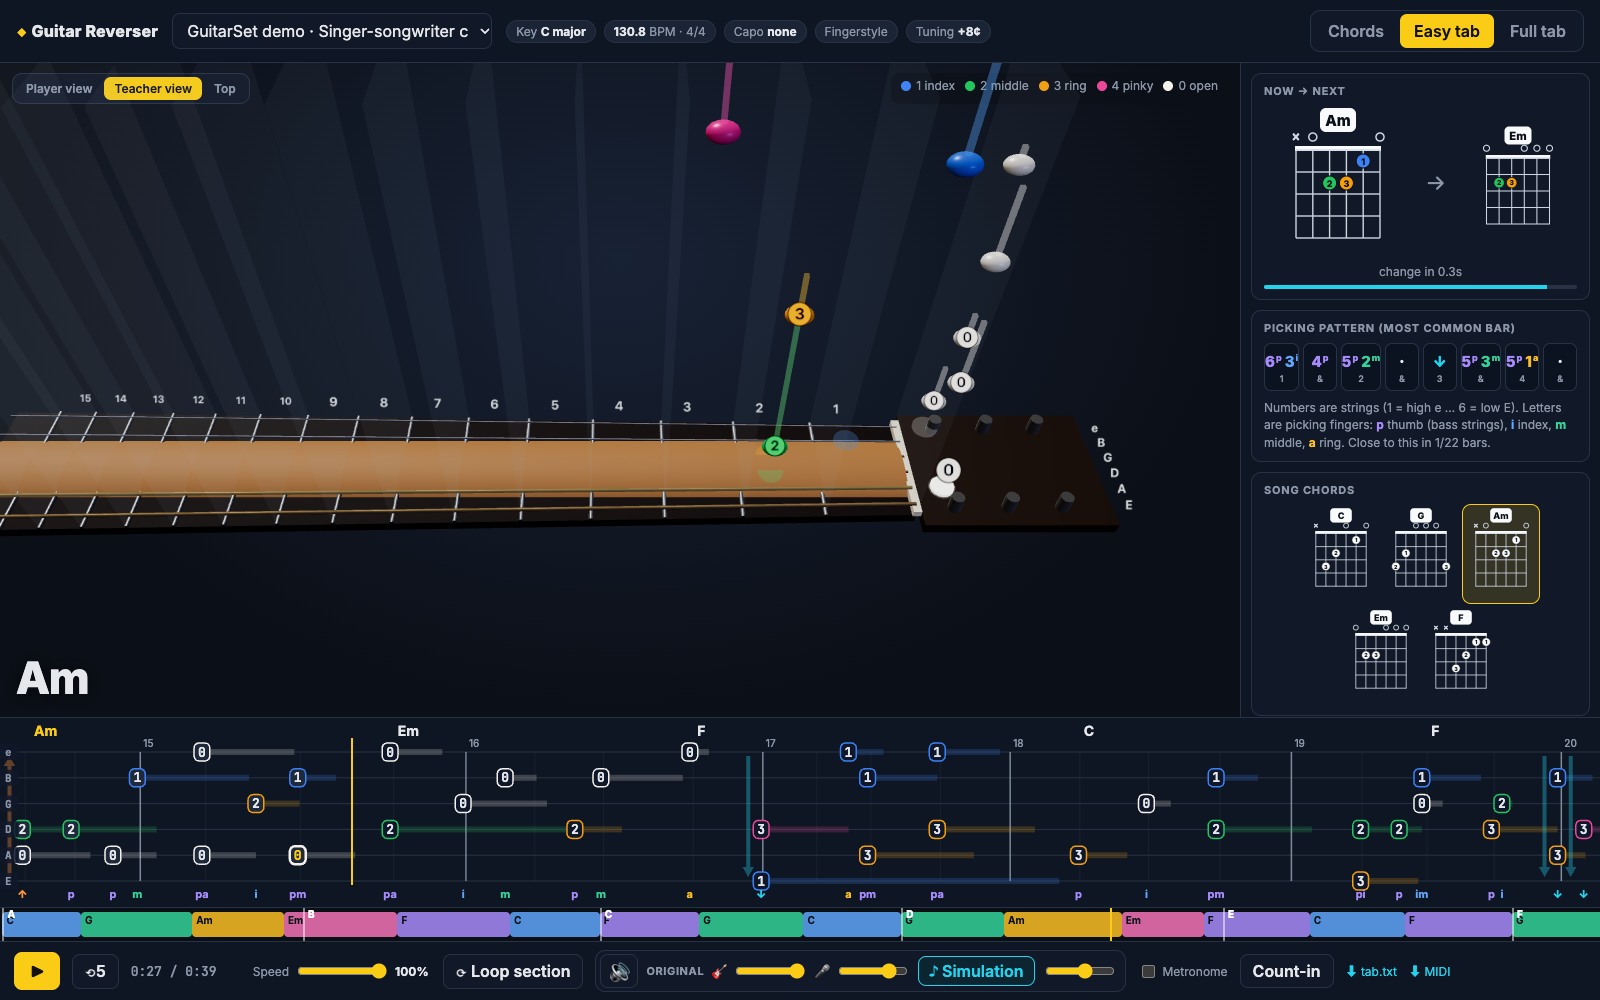
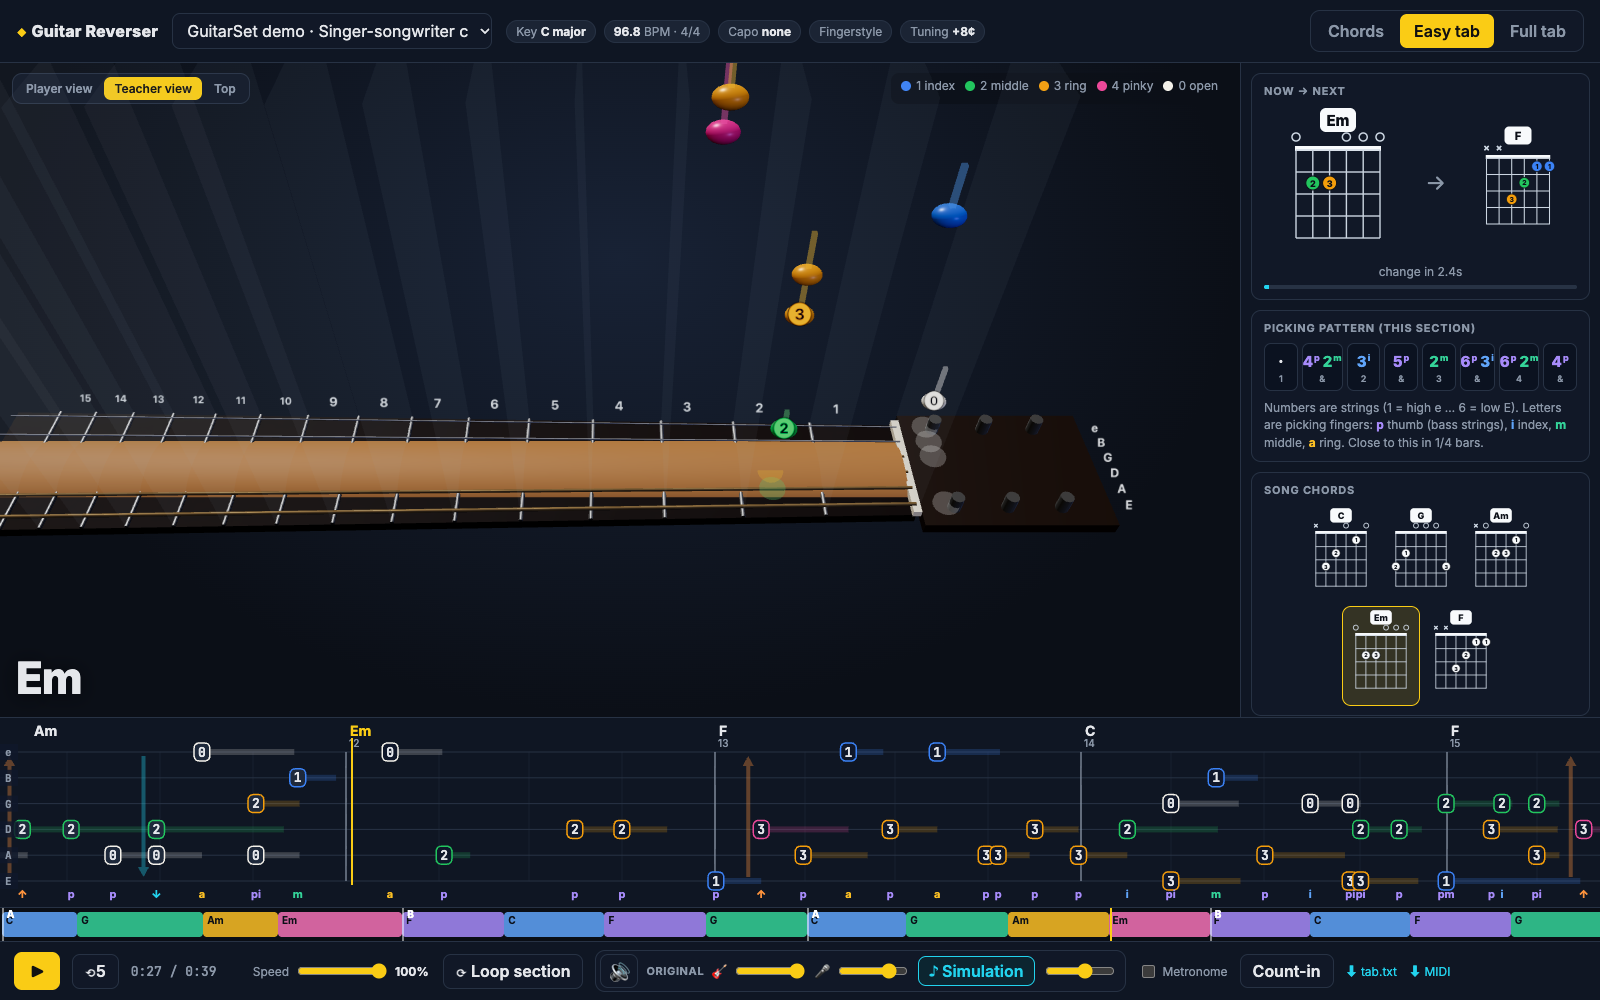
docs: beat_this and strum results, second real-video check

diff --git a/README.md b/README.md
@@ -53,7 +53,7 @@ flowchart LR
 |---|---|---|
 | Stems | [Demucs](https://github.com/facebookresearch/demucs) `htdemucs_6s` | guitar = guitar + bass + ½ other (acoustic low strings leak into "bass") |
 | Notes | [Basic Pitch](https://github.com/spotify/basic-pitch) | tuning correction, merging, octave-ghost and vocal-bleed filters |
-| Rhythm | [librosa](https://librosa.org) beat tracker, or [beat_this](https://github.com/CPJKU/beat_this) if installed | **metronome detection** (a click track is a ground-truth grid), meter and downbeat from accents, chord changes and bass onsets |
+| Rhythm | [beat_this](https://github.com/CPJKU/beat_this) (beats + downbeats; librosa fallback) | **metronome and count-in detection** (a click track is a ground-truth grid; a count-in marks beat 1), meter from accents, chord changes and bass onsets |
 | Chords & key | — | beat-synchronous chroma from the note posteriorgram, bass weighting, key from note profile + draft chords, key prior, "no chord" state, Viterbi; maj, min, 7, maj7, m7, m7♭5 |
 | Guitar in the picture | [OWLv2](https://huggingface.co/google/owlv2-base-patch16-ensemble) (open-vocabulary detection) | neck axis from body → fretting hand, nut from an aligned headstock |
 | Hands | [MediaPipe Hand Landmarker](https://ai.google.dev/edge/mediapipe/solutions/vision/hand_landmarker) | fret from geometry (`−12·log2(1 − d/scale)`), picking-hand velocity |
@@ -68,12 +68,6 @@ Needs Python 3.10–3.12, Node 18+, `ffmpeg`. Tested on an M1 Mac (Demucs uses M
 uv venv --python 3.11 .venv
 uv pip install --python .venv/bin/python -e .
 npm --prefix web install
-```
-
-Optional, better beats and downbeats ([beat_this](https://github.com/CPJKU/beat_this), ISMIR 2024). The pipeline uses it automatically when it's installed:
-
-```bash
-uv pip install --python .venv/bin/python -e ".[beats]"
 ```
 
 Try the player straight away. A CC-licensed demo song is bundled:
@@ -124,6 +118,7 @@ Analysed songs stay on your machine: `web/public/songs/` and `work/` are git-ign
 - **3D fretboard**: notes fall onto the exact string and fret, coloured by finger (1 index · 2 middle · 3 ring · 4 pinky · open). Ringing strings glow and vibrate. Drag to orbit.
 - **Tab lane** under a fixed playhead: chord names, bar numbers, sustains, p/i/m/a or ↓/↑. Click or drag to seek; Ctrl+wheel zooms.
 - **Practice**: speed 40–100 % with pitch preserved, loop a section, count-in, metronome on the detected beats.
+- **Pattern of the current section**: the picking or strum pattern follows the song (picked verse, strummed chorus).
 - **Sound**: the simulation plays the notes you see falling (guitar-like synth, on by default, `S` to toggle). The original recording plays as two stems, *guitar* and *voice & rest*, each with its own volume: mute the guitar and play along. 🔊 / `M` mutes everything. Settings are remembered.
 - **Video** with the hand-tracking overlay (fretting hand, picking hand, estimated fret).
 - **Deep links**: `?song=demo&mode=full&t=14&view=top`.
@@ -145,12 +140,12 @@ Analysed songs stay on your machine: `web/public/songs/` and `work/` are git-ign
 | Stage | Score | First version |
 |---|---|---|
 | Notes (onset ±50 ms, exact pitch) | **F1 78.9** (P 82.3 · R 75.7) | 64.2 |
-| **Tab**: onset + pitch + **string** all right | **F1 50.4** (P 52.6 · R 48.4) | 39.9 |
-| String chosen correctly, on correctly transcribed notes | **64.0 %** (lowest-fret baseline 42.3 %) | 62.1 % |
-| Chords on accompaniments: root / major-minor / sevenths | 79.8 / **78.1** / 67.5 % | 79.2 / 77.9 / 66.6 % |
-| Key (mir_eval weighted score) | **79.6 %** | 67.6 % |
-| Beats F / downbeats F | 48.8 / 26.4 % | same |
-| Tempo within 4 % (octave errors allowed) | 58.6 % (69.2 %) | same |
+| **Tab**: onset + pitch + **string** all right | **F1 49.5** (P 51.6 · R 47.5) | 39.9 |
+| String chosen correctly, on correctly transcribed notes | **62.8 %** (lowest-fret baseline 42.3 %) | 62.1 % |
+| Chords on accompaniments: root / major-minor / sevenths | 80.8 / **78.3** / 67.6 % | 79.2 / 77.9 / 66.6 % |
+| Key (mir_eval weighted score) | **79.1 %** | 67.6 % |
+| Beats F / downbeats F | **78.9 / 62.0 %** | 48.8 / 26.5 % |
+| Tempo within 4 % (octave errors allowed) | **76.1 %** (89.2 %) | 58.6 % (69.2 %) |
 
 **The fingering stage alone**, fed the true notes (string accuracy):
 
@@ -174,7 +169,12 @@ Each change was tuned on players 00–02 and kept only if it also improved playe
 | Half-diminished chords (m7♭5) | neutral on GuitarSet; needed for minor-key songs | ✅ |
 | Video fret prior converted to capo-relative frets | bug: was off by the capo with a capo | ✅ bug fix |
 | Metronome / click-track detection | exact grid when a click is present | ✅ |
-| librosa beat-tracking variants (tempo priors, Basic Pitch onset envelope) | no gain | ❌ → optional beat_this |
+| librosa beat-tracking variants (tempo priors, Basic Pitch onset envelope) | no gain | ❌ |
+| **beat_this** neural beat + downbeat tracker instead of librosa | beat F 48.8 → 78.9, downbeat F 26.5 → 62.0, tempo 59 → 76 % | ✅ |
+| Count-in detection (clicks before the music → beat 1) | fixes bar lines shifted by a beat | ✅ |
+| Strum detection from adjacent strings + pitches still ringing, voted per bar | strums found: 5 % → 98 % of a strummed chorus, 2 % false on picked verses | ✅ |
+| Strum direction: pendulum rule first (↓ beat, ↑ "&", 16ths when needed) | 77 → 97 % on a D-DU-UDU chorus | ✅ |
+| Strum direction from the video's wrist motion | 65 % | ❌ |
 | OWLv2 capo detection in the picture | unreliable boxes | ❌ |
 | "No note below the capo" as capo evidence | breaks songs with an intro played without capo | ❌ |
 
@@ -183,19 +183,34 @@ What this says:
 - **Beginner material works best.** On open-chord songs (singer-songwriter, rock and funk comps), the fingering gets 84–89 % of strings right from the notes.
 - **Fitting the costs removed the "stay low on the neck" bias.** Real players don't fret low by default; a beginner version is what *Easy tab* is for.
 - **Auto capo costs about 9 points on GuitarSet.** It picks a capo for 81 % of excerpts that have none, because a capo makes jazz keys (E♭, A♭…) look like open shapes. With capo 0 forced, string accuracy is 73.3 %. It is kept because it finds real capos, like capo 3 on the lesson video below; `--capo 0` turns it off.
-- **Rhythm is now the weakest stage:** tempo is right in 59 % of excerpts. Install `beat-this`, or record with a metronome.
+- **Rhythm went from weakest stage to solid** with beat_this; bar lines, quantisation and strum labels all depend on it.
+- **Known miss: all-downstroke strumming.** The pendulum rule labels the "&" as ↑. A strummed bridge of 8 downstrokes still gets 81 % right, because some strums carry clear string-order evidence.
 - **Caveat:** Basic Pitch saw GuitarSet in training, so the note scores are optimistic. The fingering and key changes do not depend on that.
 
 ### Real videos
 
-A fingerstyle lesson whose human-written tab scrolls on screen gives a check outside GuitarSet:
+Lesson videos that show the human tab or chords on screen give checks outside GuitarSet.
 
-| | Tab in the video | Guitar Reverser |
+**Fingerpicked lesson with capo:**
+
+| | On screen | Guitar Reverser |
 |---|---|---|
 | Capo | 3 (intro without) | **3** |
-| Tempo / meter | ♩ = 116, 3/4 | **114.8, 3/4** |
+| Tempo / meter | ♩ = 116, 3/4 | **115.4, 3/4** |
 | Key | C minor | **C minor** (first version: C major) |
 | Chord shapes | Am, Dm, Dm6/F, Bm7♭5, E, E7, A7 | **Am, Dm, Bm7♭5, E, E7**, F, A7 (first version: A, E, D, Bm7) |
+
+**Pop-ballad lesson with a count-in, picked verses and a strummed chorus:**
+
+| | On screen | Guitar Reverser |
+|---|---|---|
+| Key / meter | G major, 4/4 | **G major, 96.8 BPM, 4/4** |
+| Beat 1 | right after the 4-click count-in | **3.70 s** (first version: one beat early) |
+| Chorus chords | Am · D · G D · Em | **Am · D · G D · Em** |
+| Bridge chords | Bm · D · A · Em | Bm · D · **Am** · Em |
+| Style | picked verses, strummed chorus | **picked + strummed**, per section |
+| Chorus strum | D-DU-UDU | **↓ · ↓ ↑ · ↑ ↓ ↑** |
+| Bridge strum | 8 downstrokes | **↓ ↓ ↓ ↓ ↓ ↓ ↓ ↓** |
 
 <details>
 <summary>Reproduce (≈ 700 MB download, 5 min on an M1)</summary>
@@ -230,7 +245,6 @@ docs/screens/     README screenshots
 
 ## Roadmap
 
-- **Beat tracking**: benchmark beat_this as the default (optional today).
 - **Capo per section**: a song can switch capo (intro without, verses with), and a capo confidence would avoid false capos.
 - Learn the fingering costs per style, or with a small model trained on GuitarSet + SynthTab.
 - Swap Basic Pitch for a guitar-specific transcriber (fine-tuned on GuitarSet/SynthTab) once one with open weights exists.
